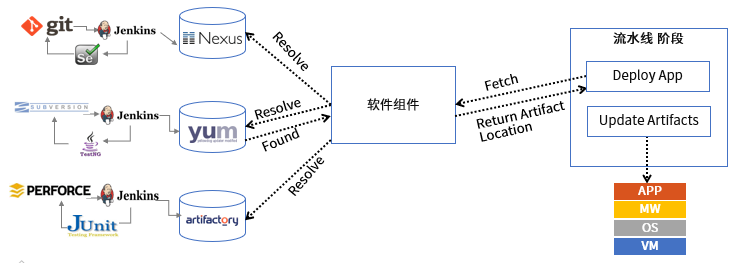
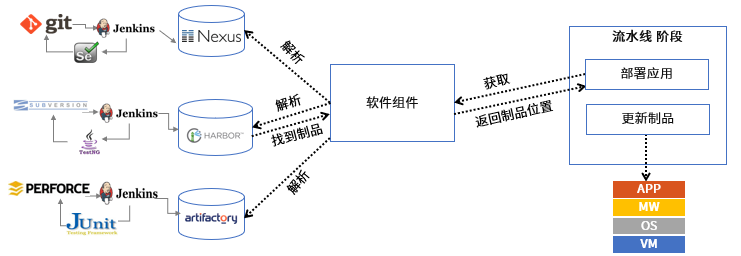
update

diff --git a/foundationConcepts/05集成与发布/index.html b/foundationConcepts/05集成与发布/index.html
@@ -924,11 +924,12 @@ SmartCMP&#x6D41;&#x6C34;&#x7EBF;&#x7684;&#x4EFB;&#x52A1;&#x5B9A;&#x4E49;&#x5305;
 <li>&#x5236;&#x54C1;&#x7BA1;&#x7406;&#x662F;&#x5BF9;&#x8F6F;&#x4EF6;&#x7814;&#x53D1;&#x8FC7;&#x7A0B;&#x4E2D;&#x751F;&#x6210;&#x7684;&#x4EA7;&#x7269;&#x7684;&#x7BA1;&#x7406;&#xFF0C; &#x4E00;&#x822C;&#x4F5C;&#x4E3A;&#x6700;&#x7EC8;&#x4EA4;&#x4ED8;&#x7269;&#x5B8C;&#x6210;&#x53D1;&#x5E03;&#x548C;&#x4EA4;&#x4ED8;&#x3002;&#x6240;&#x6709;&#x7684;&#x5236;&#x54C1;&#x5305;&#xFF0C;&#x4F9D;&#x8D56;&#x7EC4;&#x4EF6;&#x5747;&#x80FD;&#x591F;&#x7EB3;&#x5165;&#x5236;&#x54C1;&#x5E93;&#x4E2D;&#x7EDF;&#x4E00;&#x7BA1;&#x7406;&#x3002;&#x5236;&#x54C1;&#x5E93;&#x5E94;&#x4F5C;&#x4E3A;&#x6D4B;&#x8BD5;&#x53CA;&#x751F;&#x4EA7;&#x90E8;&#x7F72;&#x7684;&#x552F;&#x4E00;&#x53EF;&#x4FE1;&#x5236;&#x54C1;&#x6765;&#x6E90;&#x3002;</li>
 <li>&#x4E0D;&#x540C;&#x5F00;&#x53D1;&#x8BED;&#x8A00; &#x6240;&#x4EA7;&#x751F;&#x7684;&#x5236;&#x54C1;&#x7684;&#x83B7;&#x53D6;&#x3001;&#x4F7F;&#x7528;&#x3001;&#x5171;&#x4EAB;&#x65B9;&#x5F0F;&#x4E0D;&#x540C;&#xFF0C;&#x4E0D;&#x540C;&#x7684;&#x5236;&#x54C1;&#x4ED3;&#x5E93;&#x80FD;&#x591F;&#x7BA1;&#x7406;&#x5404;&#x81EA;&#x5F00;&#x53D1;&#x8BED;&#x8A00;&#x7C7B;&#x578B;&#x7684;&#x4E8C;&#x8FDB;&#x5236;&#x5236;&#x54C1;&#x3002;</li>
 </ul>
+<p><img src="../../picture/foundationConcepts/&#x8F6F;&#x4EF6;&#x5236;&#x54C1;&#x7BA1;&#x7406;.png" alt="&#x8F6F;&#x4EF6;&#x5236;&#x54C1;&#x7BA1;&#x7406;"></p>
 <p>&#x5982;&#x56FE;&#x6240;&#x793A;&#xFF0C;</p>
 <p> &#x5F00;&#x53D1;&#x56E2;&#x961F;&#x901A;&#x5E38;&#x4F1A;&#x4E3A;&#x6BCF;&#x4E2A;&#x9879;&#x76EE;&#x5EFA;&#x7ACB;&#x8F6F;&#x4EF6;&#x5236;&#x54C1;&#x7BA1;&#x7406;&#x7CFB;&#x7EDF;&#xFF0C;&#x4EE5;&#x5B9E;&#x73B0;&#x5728;&#x7F51;&#x7EDC;&#x4E0A;&#x4F20;&#x8F93;&#x5927;&#x578B;&#x4E8C;&#x8FDB;&#x5236;&#x6587;&#x4EF6;&#x7684;&#x826F;&#x597D;&#x6027;&#x80FD;&#x3002;&#x56E0;&#x6B64;&#xFF0C;&#x56E2;&#x961F;&#x901A;&#x5E38;&#x62E5;&#x6709;&#x5404;&#x79CD;&#x4E0D;&#x540C;&#x7684;&#x5236;&#x54C1;&#x4ED3;&#x5E93;&#xFF0C;&#x5305;&#x62EC;Nexus&#xFF0C;Harbor&#x6216;Artifactory&#x3002;&#x4F8B;&#x5982;&#xFF1A; Artifactory&#x4F5C;&#x4E3A;&#x6D41;&#x6C34;&#x7EBF;&#x4E2D;&#x7EDF;&#x4E00;&#x5B58;&#x653E;&#x7BA1;&#x7406;&#x5236;&#x54C1;&#x7684;&#x4ED3;&#x5E93;&#xFF0C;Artifactory&#x6B63;&#x5728;&#x4E0D;&#x65AD;&#x83B7;&#x53D6;&#x6700;&#x65B0;&#x3001;&#x6B63;&#x786E;&#x7684;&#x5236;&#x54C1;&#xFF0C;&#x5C06;&#x5236;&#x54C1;&#x7528;&#x4E8E;&#x5E94;&#x7528;&#x90E8;&#x7F72;&#x3001;&#x8D44;&#x6E90;&#x914D;&#x7F6E;&#x6216;&#x73AF;&#x5883;&#x66F4;&#x65B0;&#xFF0C;&#x964D;&#x4F4E;&#x521B;&#x5EFA;&#x548C;&#x81EA;&#x52A8;&#x5316;&#x53D1;&#x5E03;&#x7BA1;&#x9053;&#x7684;&#x590D;&#x6742;&#x5EA6;&#x3002;</p>
 <h1 id="&#x6267;&#x884C;&#x5386;&#x53F2;"><a name="&#x6267;&#x884C;&#x5386;&#x53F2;" class="anchor-navigation-ex-anchor" href="#&#x6267;&#x884C;&#x5386;&#x53F2;"><i class="fa fa-link" aria-hidden="true"></i></a>3. &#x6267;&#x884C;&#x5386;&#x53F2;</h1>
 <p>&#x901A;&#x8FC7;&#x6267;&#x884C;&#x5386;&#x53F2;&#x53EF;&#x4EE5;&#x67E5;&#x770B;&#x6267;&#x884C;&#x72B6;&#x6001;&#x3001;&#x6267;&#x884C;&#x4EBA;&#x3001;&#x6267;&#x884C;&#x65F6;&#x95F4;&#x3001;&#x6BCF;&#x4E2A;&#x9636;&#x6BB5;&#x4EFB;&#x52A1;&#x6267;&#x884C;&#x7684;&#x8BE6;&#x7EC6;&#x4FE1;&#x606F;&#x3002;</p>
-<footer class="page-footer-ex"> <span class="page-footer-ex-copyright"> Copyright &#xA9; 2013-2019 CloudChef. All Rights Reserved. <a href="http://www.cloudchef.io/" target="_blank">&#x4E0A;&#x6D77;&#x9A9E;&#x4E91;&#x4FE1;&#x606F;&#x79D1;&#x6280;&#x6709;&#x9650;&#x516C;&#x53F8;</a>&#x7248;&#x6743;&#x6240;&#x6709; </span> &#xA0;&#xA0;&#xA0;&#xA0;&#xA0;&#xA0;&#xA0;&#xA0;&#xA0;&#xA0; <span class="page-footer-ex-footer-update"> &#x66F4;&#x65B0;&#x65F6;&#x95F4;&#xFF1A; 2019-09-16 13:40:06 </span> </footer>
+<footer class="page-footer-ex"> <span class="page-footer-ex-copyright"> Copyright &#xA9; 2013-2019 CloudChef. All Rights Reserved. <a href="http://www.cloudchef.io/" target="_blank">&#x4E0A;&#x6D77;&#x9A9E;&#x4E91;&#x4FE1;&#x606F;&#x79D1;&#x6280;&#x6709;&#x9650;&#x516C;&#x53F8;</a>&#x7248;&#x6743;&#x6240;&#x6709; </span> &#xA0;&#xA0;&#xA0;&#xA0;&#xA0;&#xA0;&#xA0;&#xA0;&#xA0;&#xA0; <span class="page-footer-ex-footer-update"> &#x66F4;&#x65B0;&#x65F6;&#x95F4;&#xFF1A; 2019-09-16 13:53:26 </span> </footer>
                                 
                                 </section>
                             
@@ -971,7 +972,7 @@ SmartCMP&#x6D41;&#x6C34;&#x7EBF;&#x7684;&#x4EFB;&#x52A1;&#x5B9A;&#x4E49;&#x5305;
     <script>
         var gitbook = gitbook || [];
         gitbook.push(function() {
-            gitbook.page.hasChanged({"page":{"title":"集成与发布","level":"2.5","depth":1,"next":{"title":"快速上手","level":"3.1","depth":1,"path":"AdminDoc/01快速上手/README.md","ref":"AdminDoc/01快速上手/README.md","articles":[]},"previous":{"title":"服务模型","level":"2.4","depth":1,"path":"foundationConcepts/04服务目录/README.md","ref":"foundationConcepts/04服务目录/README.md","articles":[]},"dir":"ltr"},"config":{"plugins":["splitter","-lunr","-search","search-plus","expandable-chapters-small","insert-logo","simple-page-toc","favicon","page-footer-ex","anchor-navigation-ex","livereload"],"styles":{"website":"styles/website.css","ebook":"styles/ebook.css","pdf":"styles/pdf.css","mobi":"styles/mobi.css","epub":"styles/epub.css"},"pluginsConfig":{"livereload":{},"simple-page-toc":{"maxDepth":3,"skipFirstH1":true},"page-footer-ex":{"copyright":"Copyright © 2013-2019 CloudChef. All Rights Reserved. [上海骞云信息科技有限公司](http://www.cloudchef.io/)版权所有","markdown":true,"update_format":"YYYY-MM-DD HH:mm:ss","update_label":"更新时间："},"splitter":{},"fontsettings":{"theme":"white","family":"sans","size":2},"fontSettings":{"theme":"sepia","family":"serif","size":1},"highlight":{},"anchor-navigation-ex":{"associatedWithSummary":true,"float":{"floatIcon":"fa fa-navicon","level1Icon":"","level2Icon":"","level3Icon":"","showLevelIcon":false},"mode":"float","multipleH1":true,"pageTop":{"level1Icon":"","level2Icon":"","level3Icon":"","showLevelIcon":false},"printLog":false,"showGoTop":true,"showLevel":true},"favicon":{"shortcut":"https://cloudchef.github.io/doc/picture/cloudchef.ico","bookmark":"https://cloudchef.github.io/doc/picture/cloudchef.ico"},"expandable-chapters-small":{},"sharing":{"facebook":true,"twitter":true,"google":false,"weibo":false,"instapaper":false,"vk":false,"all":["facebook","google","twitter","weibo","instapaper"]},"theme-default":{"styles":{"website":"styles/website.css","pdf":"styles/pdf.css","epub":"styles/epub.css","mobi":"styles/mobi.css","ebook":"styles/ebook.css","print":"styles/print.css"},"showLevel":false},"insert-logo":{"style":"background: none;","url":"https://cloudchef.github.io/doc/picture/logo.png"},"search-plus":{}},"theme":"default","pdf":{"pageBreaksBefore":"/","headerTemplate":null,"paperSize":"a4","margin":{"right":62,"left":62,"top":36,"bottom":36},"fontSize":12,"fontFamily":"Arial","footerTemplate":null,"chapterMark":"pagebreak","pageNumbers":true},"structure":{"langs":"LANGS.md","readme":"README.md","glossary":"GLOSSARY.md","summary":"SUMMARY.md"},"variables":{},"title":"发行说明","gitbook":"*","description":"产品发行说明提供SmartCMP当前版本的最新信息，包括有关最新平台改进、特性和功能更新、维护性修复以及任何已知问题和解决方法的详细信息。","theme-default":{"showLevel":false},"extension":null},"file":{"path":"foundationConcepts/05集成与发布/README.md","mtime":"2019-09-16T05:40:06.001Z","type":"markdown"},"gitbook":{"version":"3.2.3","time":"2019-09-16T05:41:18.080Z"},"basePath":"../..","book":{"language":""}});
+            gitbook.page.hasChanged({"page":{"title":"集成与发布","level":"2.5","depth":1,"next":{"title":"快速上手","level":"3.1","depth":1,"path":"AdminDoc/01快速上手/README.md","ref":"AdminDoc/01快速上手/README.md","articles":[]},"previous":{"title":"服务模型","level":"2.4","depth":1,"path":"foundationConcepts/04服务目录/README.md","ref":"foundationConcepts/04服务目录/README.md","articles":[]},"dir":"ltr"},"config":{"plugins":["splitter","-lunr","-search","search-plus","expandable-chapters-small","insert-logo","simple-page-toc","favicon","page-footer-ex","anchor-navigation-ex","livereload"],"styles":{"website":"styles/website.css","ebook":"styles/ebook.css","pdf":"styles/pdf.css","mobi":"styles/mobi.css","epub":"styles/epub.css"},"pluginsConfig":{"livereload":{},"simple-page-toc":{"maxDepth":3,"skipFirstH1":true},"page-footer-ex":{"copyright":"Copyright © 2013-2019 CloudChef. All Rights Reserved. [上海骞云信息科技有限公司](http://www.cloudchef.io/)版权所有","markdown":true,"update_format":"YYYY-MM-DD HH:mm:ss","update_label":"更新时间："},"splitter":{},"fontsettings":{"theme":"white","family":"sans","size":2},"fontSettings":{"theme":"sepia","family":"serif","size":1},"highlight":{},"anchor-navigation-ex":{"associatedWithSummary":true,"float":{"floatIcon":"fa fa-navicon","level1Icon":"","level2Icon":"","level3Icon":"","showLevelIcon":false},"mode":"float","multipleH1":true,"pageTop":{"level1Icon":"","level2Icon":"","level3Icon":"","showLevelIcon":false},"printLog":false,"showGoTop":true,"showLevel":true},"favicon":{"shortcut":"https://cloudchef.github.io/doc/picture/cloudchef.ico","bookmark":"https://cloudchef.github.io/doc/picture/cloudchef.ico"},"expandable-chapters-small":{},"sharing":{"facebook":true,"twitter":true,"google":false,"weibo":false,"instapaper":false,"vk":false,"all":["facebook","google","twitter","weibo","instapaper"]},"theme-default":{"styles":{"website":"styles/website.css","pdf":"styles/pdf.css","epub":"styles/epub.css","mobi":"styles/mobi.css","ebook":"styles/ebook.css","print":"styles/print.css"},"showLevel":false},"insert-logo":{"style":"background: none;","url":"https://cloudchef.github.io/doc/picture/logo.png"},"search-plus":{}},"theme":"default","pdf":{"pageBreaksBefore":"/","headerTemplate":null,"paperSize":"a4","margin":{"right":62,"left":62,"top":36,"bottom":36},"fontSize":12,"fontFamily":"Arial","footerTemplate":null,"chapterMark":"pagebreak","pageNumbers":true},"structure":{"langs":"LANGS.md","readme":"README.md","glossary":"GLOSSARY.md","summary":"SUMMARY.md"},"variables":{},"title":"发行说明","gitbook":"*","description":"产品发行说明提供SmartCMP当前版本的最新信息，包括有关最新平台改进、特性和功能更新、维护性修复以及任何已知问题和解决方法的详细信息。","theme-default":{"showLevel":false},"extension":null},"file":{"path":"foundationConcepts/05集成与发布/README.md","mtime":"2019-09-16T05:53:26.324Z","type":"markdown"},"gitbook":{"version":"3.2.3","time":"2019-09-16T05:55:47.595Z"},"basePath":"../..","book":{"language":""}});
         });
     </script>
 </div>

diff --git a/foundationConcepts/05集成与发布/README.md b/foundationConcepts/05集成与发布/README.md
@@ -83,6 +83,7 @@ SmartCMP的部署任务支持将任意新应用部署到windows、linux、docker
 + 制品管理是对软件研发过程中生成的产物的管理， 一般作为最终交付物完成发布和交付。所有的制品包，依赖组件均能够纳入制品库中统一管理。制品库应作为测试及生产部署的唯一可信制品来源。
 + 不同开发语言 所产生的制品的获取、使用、共享方式不同，不同的制品仓库能够管理各自开发语言类型的二进制制品。
 
+![软件制品管理](../../picture/foundationConcepts/软件制品管理.png)
 
 如图所示，
 
